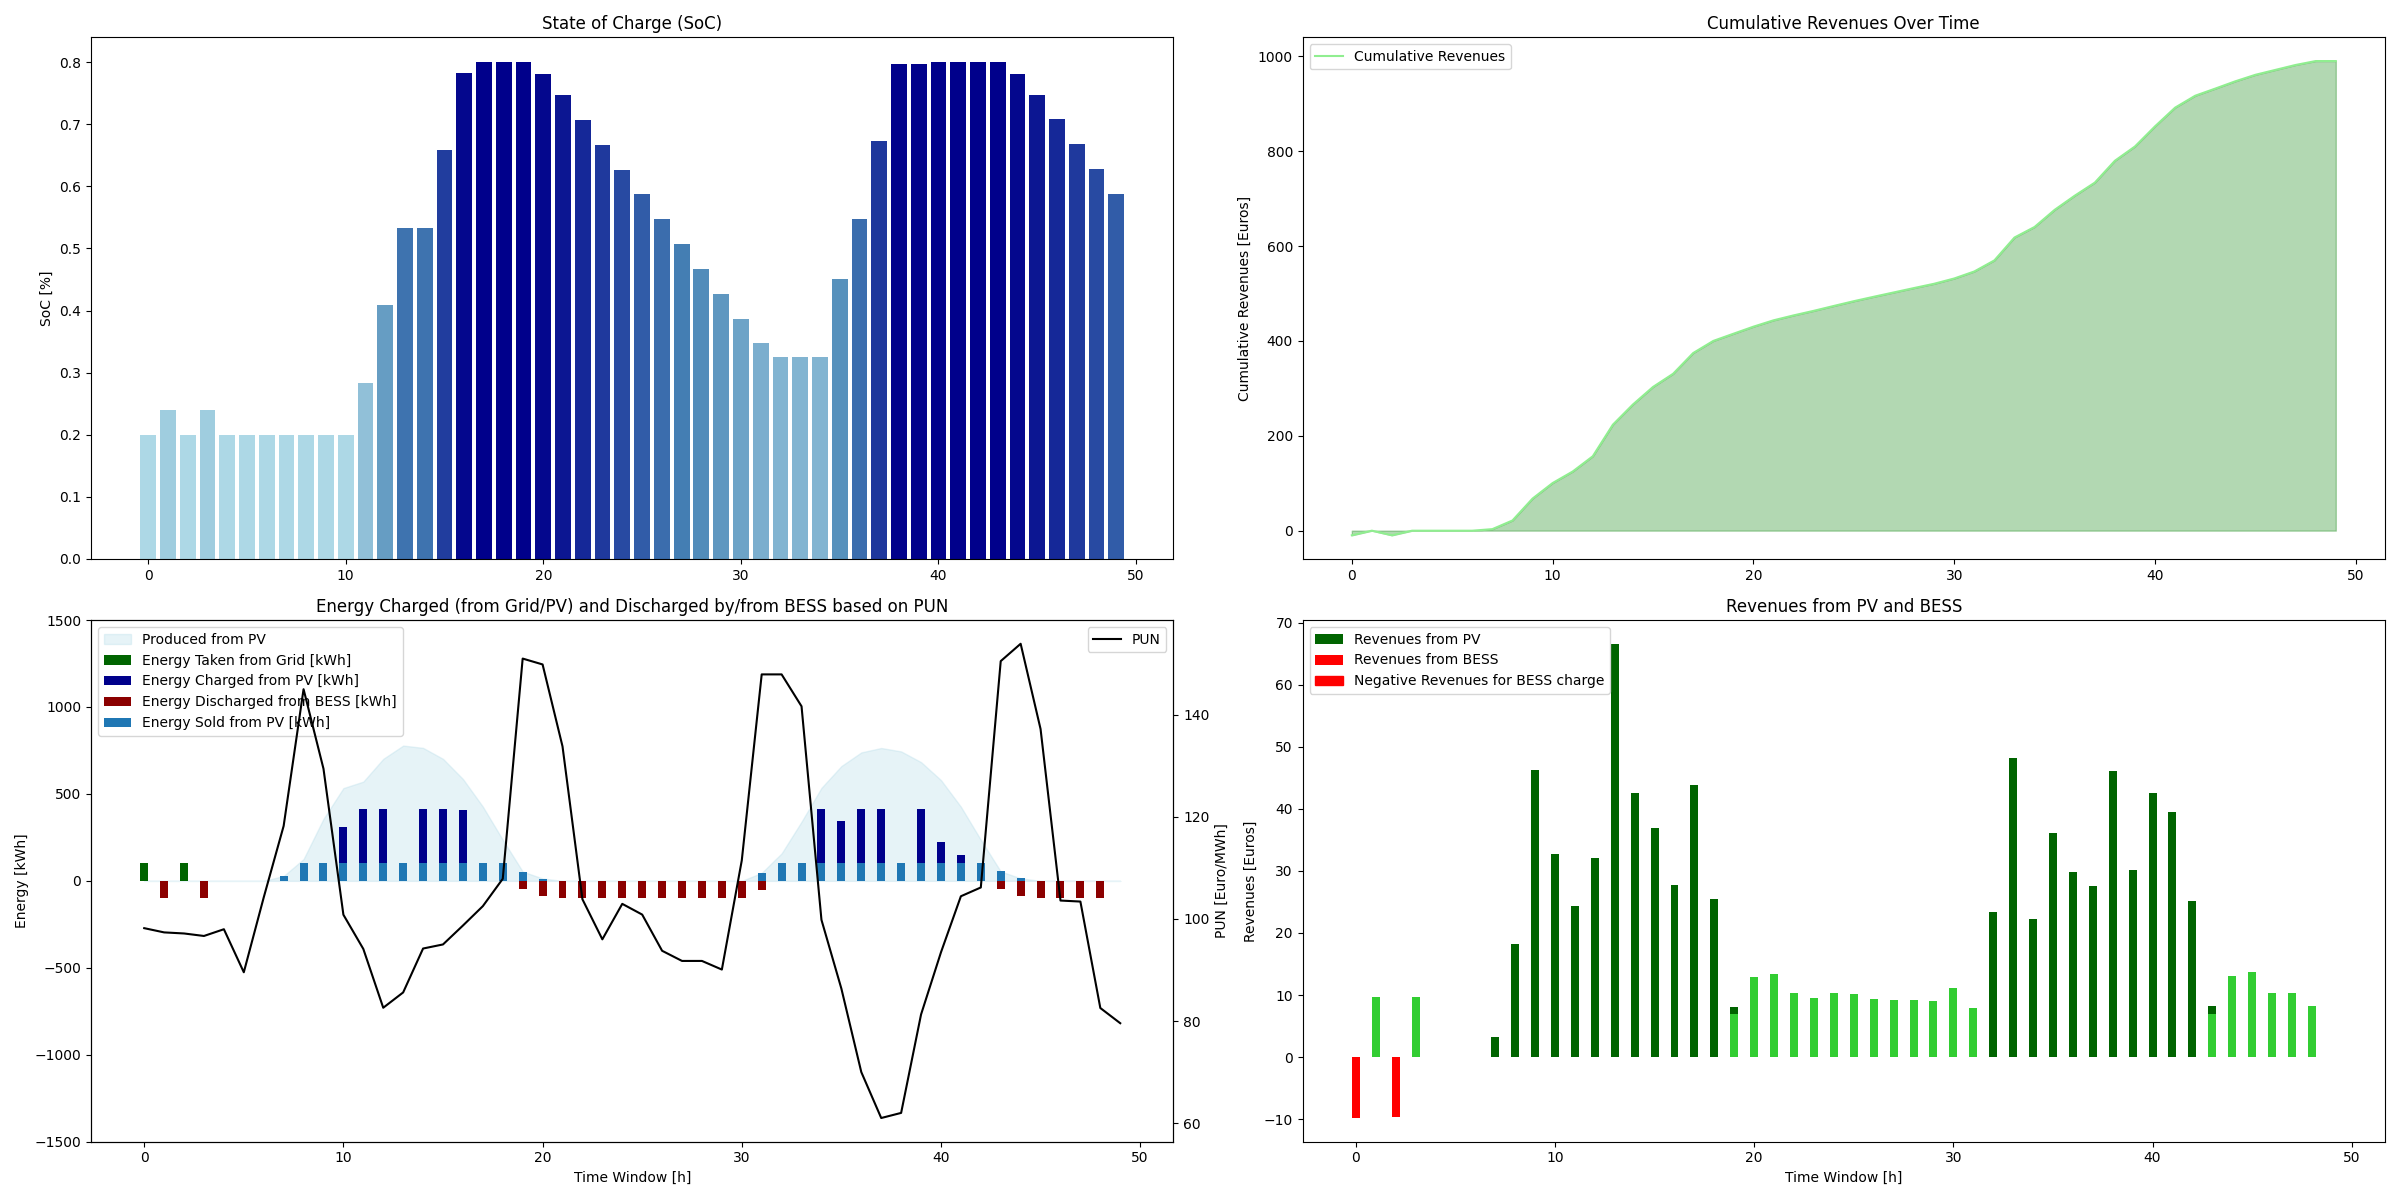
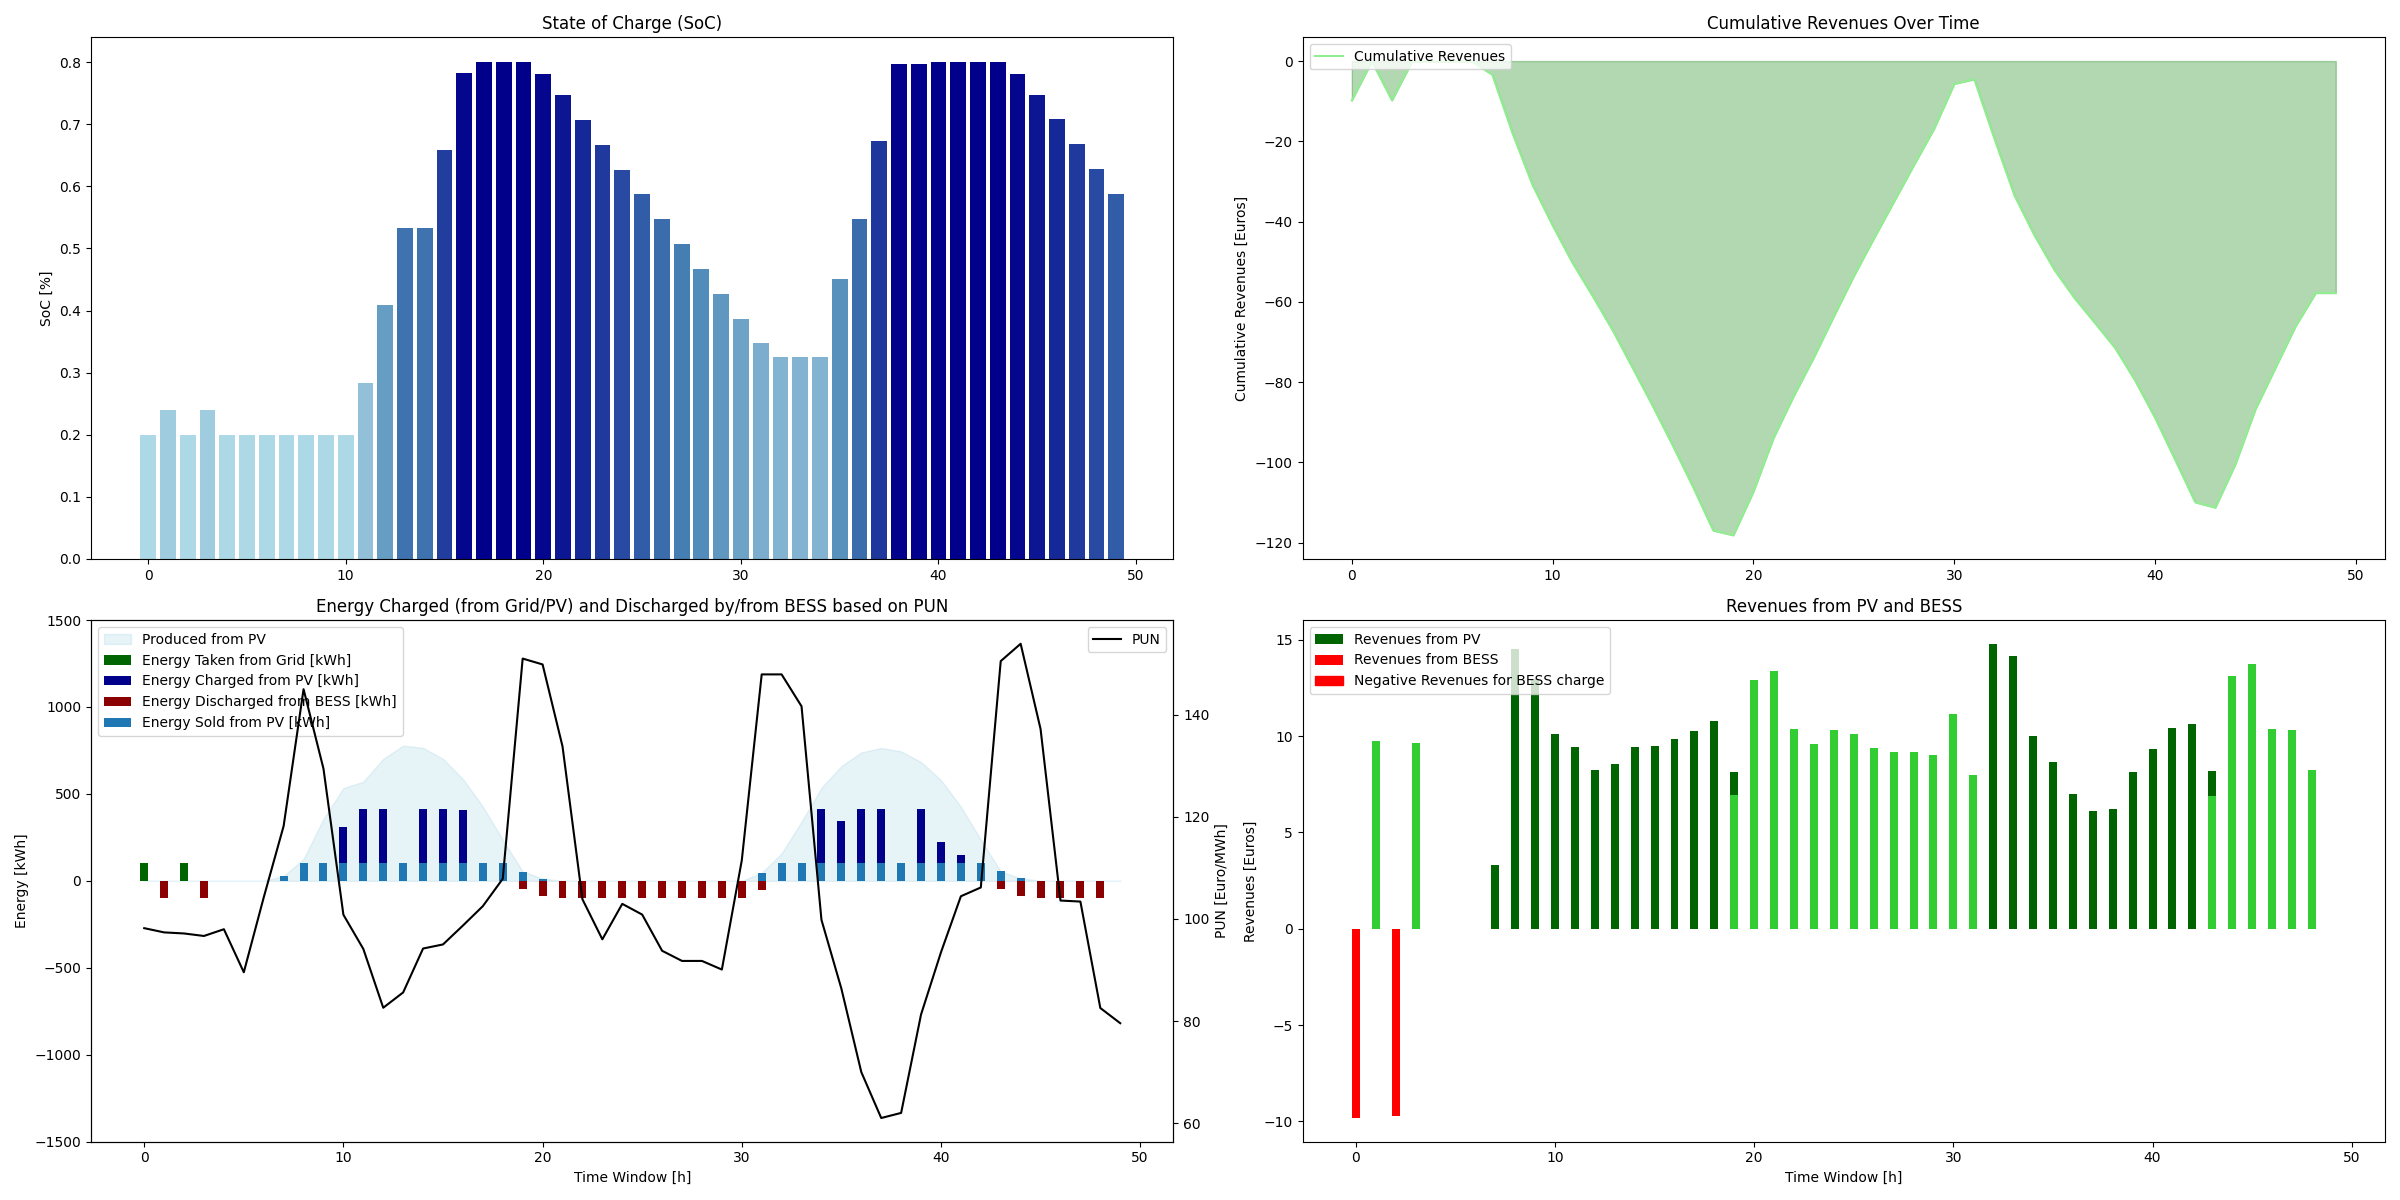
Updating Polts

diff --git a/Plots.py b/Plots.py
@@ -147,7 +147,7 @@ class EnergyPlots:
 
         rev = - (np.array(discharged_energy_24) * pun_values_24 / 1000) - (
                 taken_from_grid_24 * pun_values_24 / 1000) + (
-                      produced_from_pv - taken_from_pv_24) * pun_values_24 / 1000
+                      discharged_from_pv) * pun_values_24 / 1000
 
         # EVALUATE PV AND BESS REVENUES
 
@@ -371,9 +371,9 @@ class EnergyPlots:
 
         rev = - (np.array(discharged_energy_24) * pun_values_24 / 1000) - (
                 taken_from_grid_24 * pun_values_24 / 1000) + (
-                      produced_from_pv - taken_from_pv_24) * pun_values_24 / 1000
+                      -discharged_from_pv) * pun_values_24 / 1000
 
-        rev_pv = (produced_from_pv - taken_from_pv_24) * pun_values_24 / 1000
+        rev_pv = -discharged_from_pv * pun_values_24 / 1000
         rev_bess = -(np.array(discharged_energy_24) * pun_values_24 / 1000) - (
                 taken_from_grid_24 * pun_values_24 / 1000)
 

diff --git a/configuration.py b/configuration.py
@@ -151,7 +151,7 @@ else:
 
 # 8) DEFINE NUMBER OF GENERATIONS USED TO INTERRUPT THE ALGORITHM EXECUTION
 
-n_gen = 2000
+n_gen = 1000
 
 # 8-bis) DEFINE TOLERANCE AS THE ALGORITHM INTERRUPTION CRITERIA
 #TODO Should use same from both  because i have to delete minimize_C
